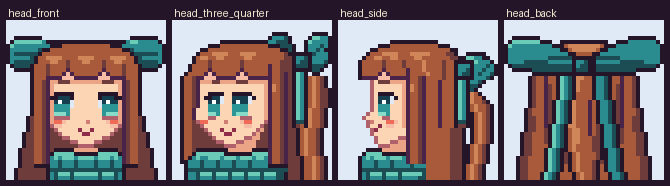
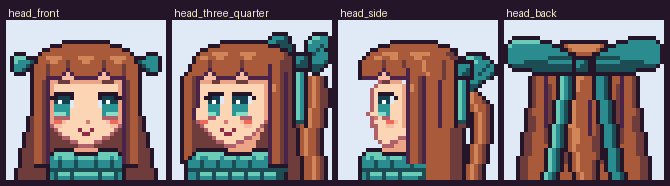
r13 head_small round 3: bow wedges, side profile

diff --git a/docs/review/r13_head_small.md b/docs/review/r13_head_small.md
@@ -1,31 +1,37 @@
-# r13 Head at full-body scale (Pixel Artist 3), round-1 fixes applied
+# r13 Head at full-body scale (Pixel Artist 3), review-2 fixes 1 and 7 applied
 
-These are candidate C's face, hand-pixelled down to a ~27 px head on 40x40 canvases (the canvas size is unchanged). They are pasted into the 96x160 full bodies at x+28.
+This is candidate C's face as a ~27 px head on 40x40 canvases, pasted into the 96x160 bodies at x+28.
 
-**Files:** `art/hand/S4/head_small/head_{front,three_quarter,side,back}.pix`. Expressions are in `expr/{front,three_quarter}_{10 names}.pix`; each one `extends:` its base view and adds patches.
-**Review images:** `00_REVIEW/r13_anime_pixel/head_small/`: `heads_x4.png`, `head_*_x8.png`, `expressions_x4.png`, and `expressions_x1x2.png` (1x/2x on snow and on a dark background).
+**Files:** `art/hand/S4/head_small/head_{front,three_quarter,side,back}.pix`, plus `expr/{front,three_quarter}_*.pix` (10 each; each one `extends:` its base view).
+**Review images:** `00_REVIEW/r13_anime_pixel/head_small/` (`heads_x4`, `head_*_x8`, `expressions_x4`, `expressions_x1x2`).
 
-## Landmark rows (the same in every view; the round-1 changes are marked)
+## Landmark rows (the same in every view)
 | row | feature |
 |---|---|
-| y4 | bow top (new) |
 | y5 | crown |
-| y14 | bang cut, with 2 notched V's |
-| y15 | brows: 1 px `hair_1` (moved up 1 row) |
+| y14 | bang cut, 2 notches |
+| y15 | 1 px `hair_1` brows |
 | y18 | lash |
-| y19-23 | iris: i, i+catchlight, j, j, k |
+| y19-23 | iris ramp, 1 catchlight on the upper-left |
 | y24 | lower lash |
 | y25-26 | blush |
-| y25 | nose |
-| y27-28 | mouth: 1-2-1 smile |
+| y25 | nose (side view: y23) |
+| y27-28 | 1-2-1 smile |
 | y31 | chin |
 
-## Bow (per review 1)
-- **Front:** the loops peek 6 px each side, behind the hair, at y4-12, with a fold line. The knot is hidden and the total width is 40 px.
-- **3/4:** a 5x5 knot sits on the back of the skull (x30-34, y8-12). The far loop shows over the crown and the near loop rises up and back. One tail hangs down, and the ponytail has an S-curve.
-- **Side:** a lobe at y8-18 behind a 5x5 knot (x29-33, y10-14). The ponytail arcs back.
-- **Back:** loops at y4-13 and a 5x5 knot (x17-21, y9-13) over the ponytail root. The dome shows above the knot. Two tails run off the bottom edge (they reach about y40 on the body).
+## Bow
+- **Front:** a wedge on each side, coming out from behind the hair at y8-13 (x1-6 and x33-38). It shows 5 px or less, widens outward and has one `teal_0` crease. The outer corner is the highest point.
+- **3/4:** a 5x5 knot on the back of the skull (x30-34, y8-12). The far loop shows over the crown and the near loop goes up and back.
+- **Side:** lobe y8-18, knot x29-33 y10-14.
+- **Back:** a 5x5 knot (x17-21, y9-13) over the ponytail root; two tails run off the bottom edge.
 
-## Face notes
-- **3/4:** the far eye is 4 px wide (3 px iris) and the near eye is 5 px. There is a 2 px nose-bridge gap and 1-2 px of skin to the cheek contour. The jaw runs 1-1-1-2-2 to a soft chin.
-- Every file uses 21 colours or fewer. The only orphan pixels are catchlights, the nose and FX.
+## Side profile
+- The forehead curves from x10 to x8.
+- The nose is a 1 px upturned tip at (7,23), and the face steps back at y24.
+- The mouth is a single `line_skin` pixel at (9,26).
+- The chin is rounded at y27-31.
+- There are no side expressions.
+
+**3/4:** far eye 4 px (3 px iris), near eye 5 px, 2 px nose-bridge gap.
+
+Every file uses 21 colours or fewer. The only orphan pixels are catchlights, the nose and FX.
